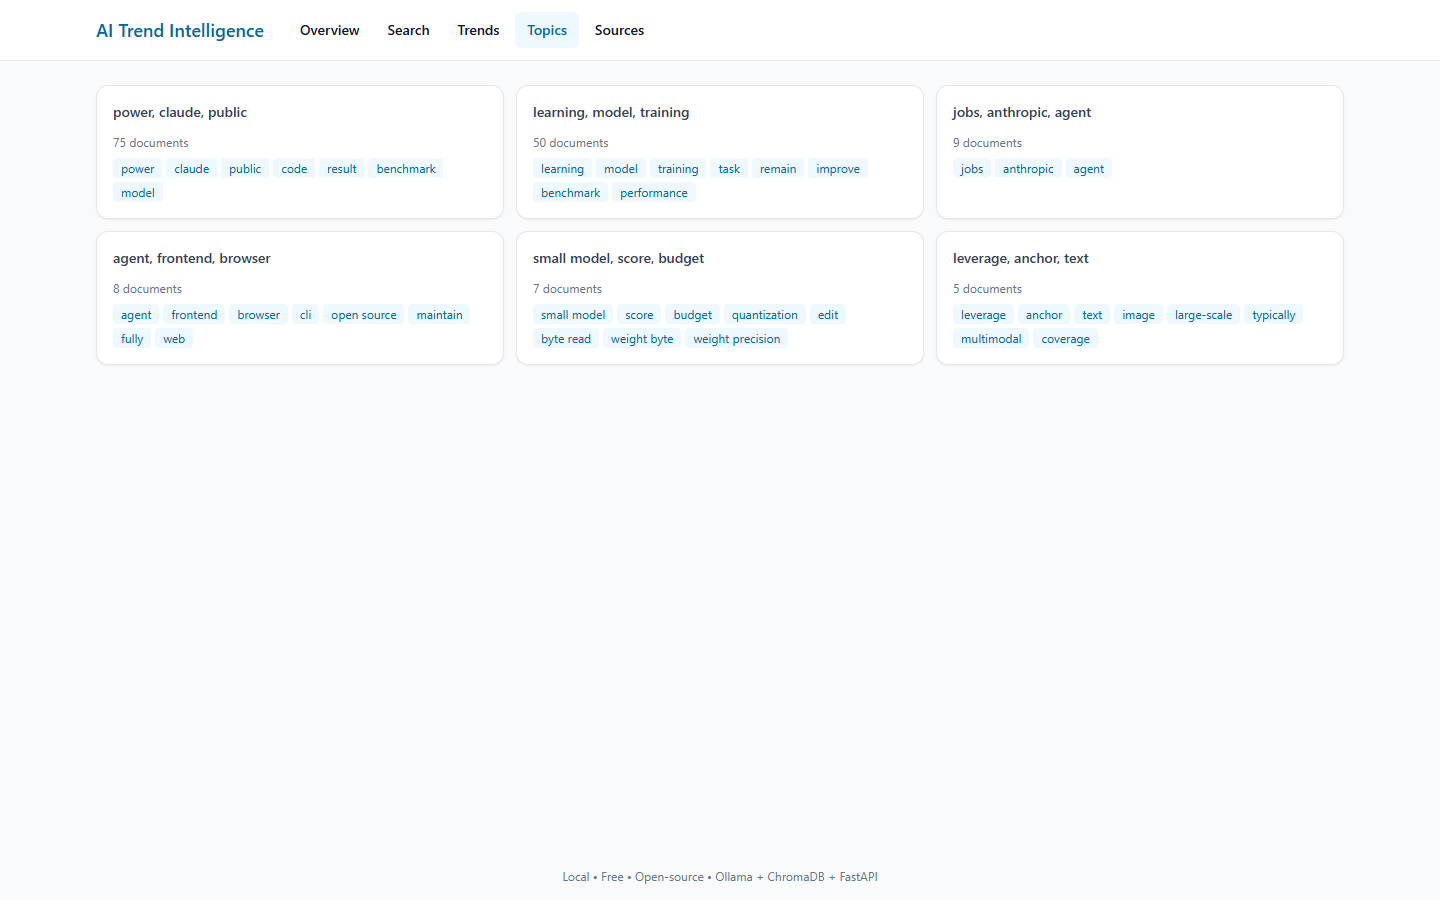
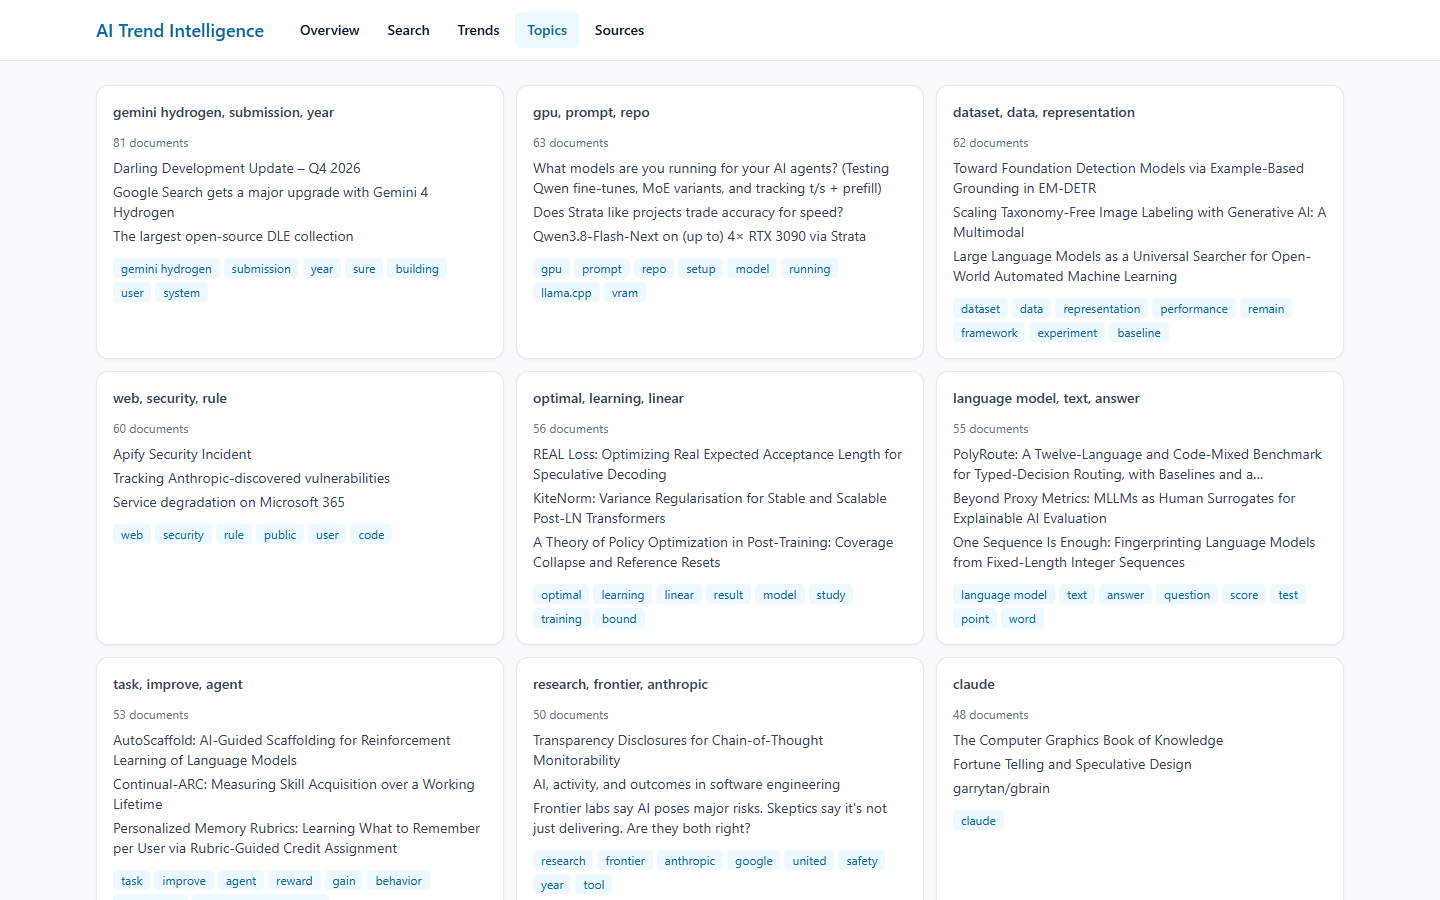
Cluster topics with k-means and show representative headlines
HDBSCAN put ~80% of 700 documents in one blob (or, tuned finer, marked ~70%
as noise), so topics are now k-means with roughly one topic per 50 documents.
Each topic stores every document's similarity to its centre and the API
returns the three closest headlines, which the Topics page shows above the
keywords.

Trends count documents rather than occurrences and need at least two, so a
single long thread no longer dominates. The pipeline now pulls 200 arXiv
papers and 150 Hacker News stories per run. hdbscan is dropped from the
requirements; docs and README updated.

diff --git a/frontend/src/pages/Topics.tsx b/frontend/src/pages/Topics.tsx
@@ -13,6 +13,17 @@ export default function Topics() {
       {topics.map((t) => (
         <Card key={t.id} title={t.label}>
           <div className="text-xs text-slate-500 mb-2">{t.size} documents</div>
+          <ul className="mb-3 space-y-1 text-sm text-slate-700">
+            {t.examples.map((e) => (
+              <li key={e.id} className="line-clamp-2">
+                {e.url ? (
+                  <a href={e.url} target="_blank" rel="noreferrer" className="hover:underline">{e.title}</a>
+                ) : (
+                  e.title
+                )}
+              </li>
+            ))}
+          </ul>
           <div className="flex flex-wrap gap-1">
             {t.keywords.map((k) => (
               <span key={k} className="text-xs bg-brand-50 text-brand-700 rounded px-2 py-0.5">{k}</span>

diff --git a/frontend/src/api/client.ts b/frontend/src/api/client.ts
@@ -37,6 +37,7 @@ export interface TopicItem {
   label: string;
   keywords: string[];
   size: number;
+  examples: { id: number; title: string; url: string | null }[];
 }
 
 export const api = {

diff --git a/backend/app/pipelines/topics.py b/backend/app/pipelines/topics.py
@@ -1,4 +1,4 @@
-"""Topic clustering using HDBSCAN over recent document embeddings."""
+"""Topic clustering with k-means over recent document embeddings."""
 from __future__ import annotations
 
 import math
@@ -18,24 +18,25 @@ from backend.app.utils.logging import get_logger
 log = get_logger(__name__)
 
 
-def cluster_embeddings(X: np.ndarray, min_cluster_size: int = 5) -> np.ndarray:
-    """Cluster unit-norm embeddings with HDBSCAN; returns labels (-1 = noise).
+def cluster_embeddings(
+    X: np.ndarray, docs_per_topic: int = 50, max_topics: int = 20
+) -> np.ndarray:
+    """Group unit-norm embeddings into topics with k-means; returns a label per row.
 
-    HDBSCAN on raw 384-d embeddings finds no density structure on small corpora
-    (everything is noise), so reduce to a few PCA dimensions first and scale
-    ``min_cluster_size`` down for small inputs.
+    Density clustering (HDBSCAN) was tried first and does not suit this data:
+    on ~700 mixed AI/dev posts it put 80% of them in one blob, or, tuned finer,
+    marked 70% as noise. K-means assigns every document and yields readable
+    topics. The silhouette score is flat across k here (~0.08), so it cannot
+    pick k; one topic per ``docs_per_topic`` documents is used instead.
     """
-    import hdbscan
+    from sklearn.cluster import KMeans
     from sklearn.decomposition import PCA
 
     n = len(X)
-    dims = min(10, n - 1, X.shape[1])
+    k = max(2, min(max_topics, round(n / docs_per_topic), n))
+    dims = min(30, n - 1, X.shape[1])
     Z = PCA(n_components=dims, random_state=0).fit_transform(X) if dims >= 2 else X
-    size = max(3, min(min_cluster_size, n // 25))
-    clusterer = hdbscan.HDBSCAN(
-        min_cluster_size=size, min_samples=2, metric="euclidean"
-    )
-    return clusterer.fit_predict(Z.astype(np.float64))
+    return KMeans(n_clusters=k, n_init=10, random_state=0).fit_predict(Z)
 
 
 def label_clusters(
@@ -71,8 +72,23 @@ def label_clusters(
     return out
 
 
+def centroid_scores(X: np.ndarray, labels: Sequence[int]) -> np.ndarray:
+    """Cosine similarity of each document to its cluster centre (0 for noise).
+
+    Used to pick the headlines that best represent a topic.
+    """
+    labels = np.asarray(labels)
+    scores = np.zeros(len(labels))
+    for cid in set(labels.tolist()) - {-1}:
+        idx = np.where(labels == cid)[0]
+        centre = X[idx].mean(axis=0)
+        centre /= np.linalg.norm(centre) or 1.0
+        scores[idx] = X[idx] @ centre
+    return scores
+
+
 async def cluster_topics(
-    session: AsyncSession, max_docs: int = 1000, min_cluster_size: int = 5
+    session: AsyncSession, max_docs: int = 1000, min_docs: int = 10
 ) -> List[Topic]:
     docs = list(
         (
@@ -83,27 +99,28 @@ async def cluster_topics(
         .scalars()
         .all()
     )
-    if len(docs) < min_cluster_size:
+    if len(docs) < min_docs:
         log.info("topics.too_few", n=len(docs))
         return []
 
     texts = [f"{d.title}\n{d.content or ''}" for d in docs]
     X = embed_texts(texts)
 
-    labels = cluster_embeddings(X, min_cluster_size)
+    labels = cluster_embeddings(X)
 
     # reset topic data
     await session.execute(delete(DocumentTopic))
     await session.execute(delete(Topic))
 
     doc_terms = [_terms(t) for t in texts]
+    sims = centroid_scores(X, labels)
     keywords_by_cluster = label_clusters(doc_terms, labels)
 
     out: List[Topic] = []
     for cid in sorted(set(labels)):
         if cid == -1:
             continue
-        members = [d for d, l in zip(docs, labels) if l == cid]
+        members = [(d, float(s)) for d, l, s in zip(docs, labels, sims) if l == cid]
         keywords = keywords_by_cluster.get(cid, [])
         label = ", ".join(keywords[:3]) or f"topic-{cid}"
         topic = Topic(
@@ -113,8 +130,8 @@ async def cluster_topics(
         )
         session.add(topic)
         await session.flush()
-        for m in members:
-            session.add(DocumentTopic(document_id=m.id, topic_id=topic.id, score=1.0))
+        for m, s in members:
+            session.add(DocumentTopic(document_id=m.id, topic_id=topic.id, score=s))
         out.append(topic)
 
     await session.commit()

diff --git a/backend/app/pipelines/trends.py b/backend/app/pipelines/trends.py
@@ -36,6 +36,7 @@ _STOP = (set(ENGLISH_STOP_WORDS) - {"system", "computer"}) | {
     "leverages", "exhibits", "demonstrate", "demonstrates", "show", "shows",
     "achieve", "achieves", "single", "real", "run", "runs", "description",
     "semantically", "pass", "average", "existing", "recent", "different",
+    "year", "tried", "write", "wrote", "sure", "state", "point",
 }
 
 
@@ -116,7 +117,9 @@ async def compute_daily_trends(
         if not d.published_at:
             continue
         b = _bucket_day(d.published_at)
-        counts.setdefault(b, Counter()).update(_terms(f"{d.title} {d.content or ''}"))
+        # Count documents, not occurrences: one long thread that says "prefill"
+        # forty times is one story, not a trend.
+        counts.setdefault(b, Counter()).update(set(_terms(f"{d.title} {d.content or ''}")))
 
     # wipe day buckets we recompute
     await session.execute(delete(Trend).where(Trend.bucket.in_(list(counts.keys()))))
@@ -127,7 +130,7 @@ async def compute_daily_trends(
         # Compare with the average of up to a week of earlier days instead of
         # just yesterday, so one quiet day doesn't make everything "rising".
         window = [counts[x] for x in buckets_sorted[max(0, i - 7):i]]
-        kept = _prune_subsumed(counts[b])
+        kept = Counter({x: c for x, c in _prune_subsumed(counts[b]).items() if c >= 2})
         # Phrases are rarer than single words, so rank the two kinds separately
         # or they would never reach the list.
         words = [(x, c) for x, c in kept.most_common() if " " not in x][: top_k * 3 // 5]

diff --git a/backend/tests/test_trends_service.py b/backend/tests/test_trends_service.py
@@ -54,3 +54,43 @@ async def _phrase_run():
 
 def test_phrases_outrank_generic_words_with_a_similar_rise():
     assert [r["term"] for r in asyncio.run(_phrase_run())][0] == "foundation model"
+
+
+async def _df_run():
+    from datetime import datetime, timezone
+
+    from sqlalchemy import select
+
+    from backend.app.pipelines.etl import ingest_items
+    from backend.app.pipelines.trends import compute_daily_trends
+    from backend.app.scraping.schemas import RawItem
+
+    now = datetime.now(timezone.utc)
+
+    def item(i, text):
+        return RawItem(source="hackernews", external_id=str(i), title=text, content="", published_at=now)
+
+    engine = create_async_engine("sqlite+aiosqlite:///:memory:")
+    async with engine.begin() as conn:
+        await conn.run_sync(Base.metadata.create_all)
+    Session = async_sessionmaker(engine, expire_on_commit=False)
+    async with Session() as s:
+        await ingest_items(
+            s,
+            [
+                item(1, "prefill " * 20 + "decode"),
+                item(2, "agents everywhere"),
+                item(3, "building agents"),
+            ],
+        )
+    async with Session() as s:
+        await compute_daily_trends(s)
+        rows = {r.term: r.count for r in (await s.execute(select(Trend))).scalars().all()}
+    await engine.dispose()
+    return rows
+
+
+def test_terms_are_counted_once_per_document_and_need_two_documents():
+    rows = asyncio.run(_df_run())
+    assert rows.get("agent") == 2
+    assert "prefill" not in rows  # 20 mentions, but in a single document

diff --git a/backend/app/api/topics.py b/backend/app/api/topics.py
@@ -3,7 +3,7 @@ from sqlalchemy import select
 from sqlalchemy.ext.asyncio import AsyncSession
 
 from backend.app.api.deps import db_session
-from backend.app.models import Topic
+from backend.app.models import Document, DocumentTopic, Topic
 
 router = APIRouter(prefix="/topics", tags=["topics"])
 
@@ -13,12 +13,25 @@ async def list_topics(session: AsyncSession = Depends(db_session)) -> list[dict]
     rows = (
         await session.execute(select(Topic).order_by(Topic.size.desc()))
     ).scalars().all()
-    return [
-        {
-            "id": t.id,
-            "label": t.label,
-            "keywords": t.keywords.split(", ") if t.keywords else [],
-            "size": t.size,
-        }
-        for t in rows
-    ]
+    out = []
+    for t in rows:
+        # the documents closest to the cluster centre are its best examples
+        examples = (
+            await session.execute(
+                select(Document.id, Document.title, Document.url)
+                .join(DocumentTopic, DocumentTopic.document_id == Document.id)
+                .where(DocumentTopic.topic_id == t.id)
+                .order_by(DocumentTopic.score.desc())
+                .limit(3)
+            )
+        ).all()
+        out.append(
+            {
+                "id": t.id,
+                "label": t.label,
+                "keywords": t.keywords.split(", ") if t.keywords else [],
+                "size": t.size,
+                "examples": [{"id": i, "title": ti, "url": u} for i, ti, u in examples],
+            }
+        )
+    return out

diff --git a/backend/tests/test_topics_clustering.py b/backend/tests/test_topics_clustering.py
@@ -14,16 +14,15 @@ def _blobs(groups=3, per_group=20, dim=384, noise=0.15, seed=0):
 
 
 def test_cluster_embeddings_separates_distinct_groups():
-    labels = cluster_embeddings(_blobs(), min_cluster_size=5)
-    found = set(labels) - {-1}
-    assert len(found) >= 2
+    labels = cluster_embeddings(_blobs(), docs_per_topic=20)
+    assert len(set(labels)) == 3
     # points from the same generated group should mostly share a label
     first = labels[:20]
-    assert (first == np.bincount(first[first >= 0]).argmax()).sum() >= 15
+    assert (first == np.bincount(first).argmax()).sum() == 20
 
 
 def test_cluster_embeddings_handles_tiny_input():
-    labels = cluster_embeddings(_blobs(groups=1, per_group=6), min_cluster_size=5)
+    labels = cluster_embeddings(_blobs(groups=1, per_group=6))
     assert len(labels) == 6
 
 
@@ -39,3 +38,13 @@ def test_label_clusters_prefers_distinctive_phrases_over_common_words():
     assert "diffusion model" in kw[0] or "image generation" in kw[0]
     assert "model" not in kw[0][:2]  # shared by every doc, so not distinctive
     assert any("agents" in k or "llm" in k for k in kw[1][:3])
+
+
+def test_centroid_scores_rank_central_points_first_and_ignore_noise():
+    from backend.app.pipelines.topics import centroid_scores
+
+    X = np.array([[1.0, 0.0], [0.99, 0.14], [0.8, 0.6], [0.0, 1.0]])
+    X /= np.linalg.norm(X, axis=1, keepdims=True)
+    s = centroid_scores(X, [0, 0, 0, -1])
+    assert s[3] == 0.0
+    assert s[1] > s[0] and s[1] > s[2]  # middle point is closest to the centre

diff --git a/backend/scripts/run_pipeline.py b/backend/scripts/run_pipeline.py
@@ -28,9 +28,9 @@ async def main() -> None:
     log.info("pipeline.scrape")
     batches = await asyncio.gather(
         scrape_reddit(),
-        scrape_hackernews(limit=50),
+        scrape_hackernews(limit=150),
         scrape_github_trending(),
-        scrape_arxiv(max_results=40),
+        scrape_arxiv(max_results=200),
         return_exceptions=True,
     )
     items = list(

diff --git a/README.md b/README.md
@@ -13,7 +13,7 @@ A 100% free, locally-runnable, full-stack AI platform that scrapes developer/AI 
 - **Local embeddings**: `sentence-transformers/all-MiniLM-L6-v2`
 - **Vector search**: ChromaDB
 - **Local LLM summaries**: Ollama (`llama3` / `mistral`)
-- **Trend detection**: time-bucketed frequency deltas + optional HDBSCAN clustering
+- **Trend detection**: time-bucketed term and phrase frequencies compared against a 7-day baseline, plus k-means topic clustering
 - **REST API**: FastAPI + Swagger
 - **Dashboard**: React + Vite + Tailwind + Recharts
 - **Production layout**: Docker, docker-compose, Alembic migrations, structured logging
@@ -26,7 +26,7 @@ A 100% free, locally-runnable, full-stack AI platform that scrapes developer/AI 
 
 ![Overview dashboard](docs/images/overview.png)
 
-**Topics** — HDBSCAN clusters over local embeddings, labelled with their top keywords:
+**Topics** — k-means clusters over local embeddings, each with its most representative headlines and distinctive keywords:
 
 ![Topic clusters](docs/images/topics.png)
 

diff --git a/docs/ARCHITECTURE.md b/docs/ARCHITECTURE.md
@@ -20,7 +20,7 @@ This document describes the high-level architecture of the **AI Developer Trends
    Daily term-frequency buckets, with deltas vs the previous bucket.
 
 5. **Topics** (`backend/app/pipelines/topics.py`)
-   HDBSCAN clustering over recent embeddings; top keywords are used as labels.
+   k-means clustering over recent embeddings; topics are labelled with their most distinctive terms (TF-IDF across clusters).
 
 6. **AI summaries** (`backend/app/ai/ollama.py`)
    Async client against a locally running Ollama daemon (`llama3` by default).

diff --git a/docs/API.md b/docs/API.md
@@ -24,7 +24,7 @@ Top terms for a day bucket (omit `bucket` to get most-trending across all bucket
 List available day buckets, newest first.
 
 ### GET `/topics`
-List HDBSCAN clusters with label, keywords, and size.
+List k-means topics with label, keywords, size, and the 3 most representative documents.
 
 ### POST `/summary`
 ```json
